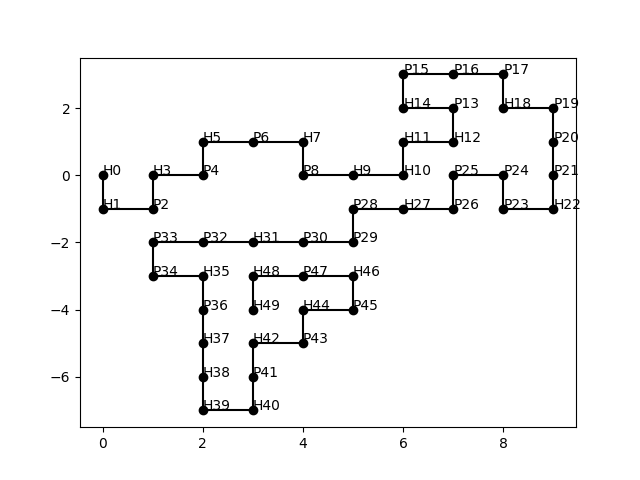
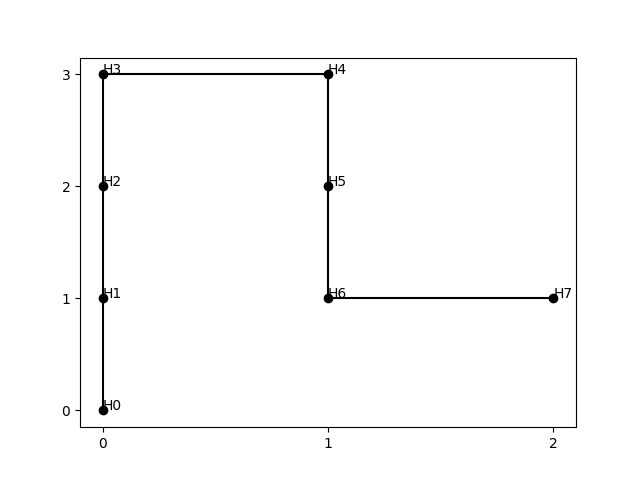
visualize axis update

diff --git a/visualize.py b/visualize.py
@@ -1,10 +1,11 @@
 import matplotlib
 matplotlib.use('Agg')
 
-import matplotlib.pyplot as plt
-import numpy as np
-import matplotlib as mpl
 import csv
+import numpy as np
+import matplotlib.pyplot as plt
+import matplotlib as mpl
+from matplotlib.ticker import MaxNLocator
 from code.classes.protein import Protein
 from code.algorithms.grid import Grid
 from code.algorithms.random import Random
@@ -13,13 +14,9 @@ def visualize(lst):
     '''
     Visualizes the folded protein.
     '''
-    # print("LST:")
-    # print(lst)
-    # coordinates = protein.solutions[0]
+    # Gain data of the protein to visualize
     coordinates = lst[1]
     sorted_coordinates = sorted(coordinates.items(), key=lambda x: x[1].index)
-    # print("COORDINATES:")
-    # print(coordinates)
     data = {"x":[], "y":[], "label":[]}
 
     # Append all amino acids + coordinates into the datafile to plot.
@@ -28,11 +25,14 @@ def visualize(lst):
         data["y"].append(coord[1])
         data["label"].append(label)
 
-    # print(data)
-
     # Plot figure of the grid
     plt.figure()
+    ax = plt.gca()
     plt.plot(data["x"], data["y"], '-ok')
+
+    # Set both the X- and Y-axis to integer values
+    ax.yaxis.set_major_locator(MaxNLocator(integer=True))
+    ax.xaxis.set_major_locator(MaxNLocator(integer=True))
 
     # Label all amino acids within the plot
     for x, y, label in zip(data["x"], data["y"], data["label"]):
